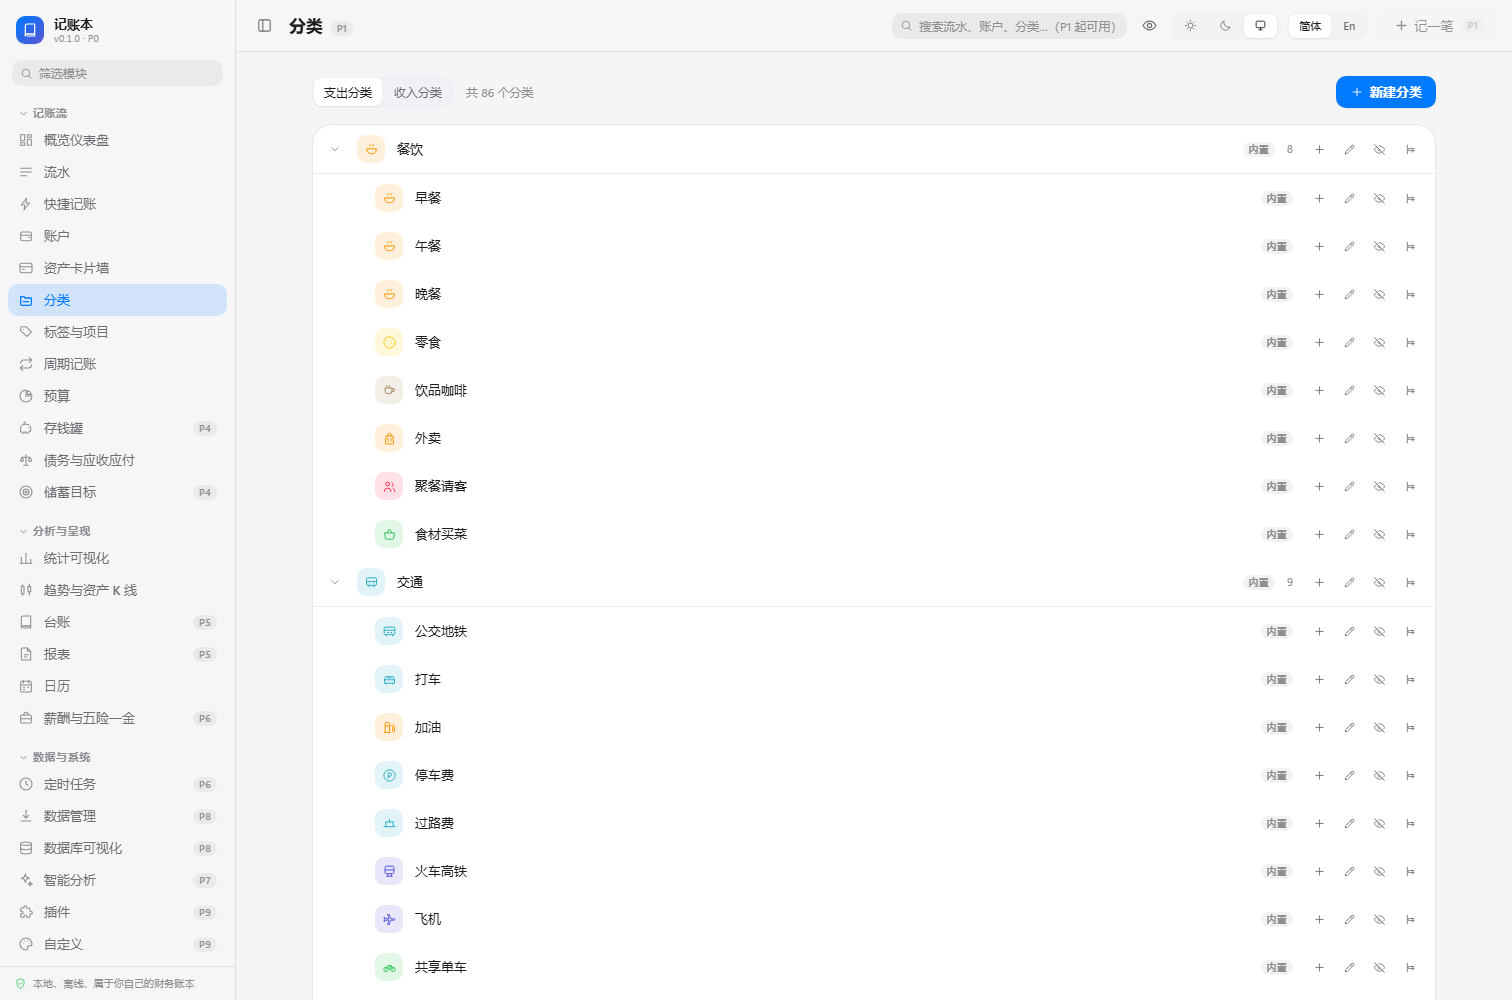
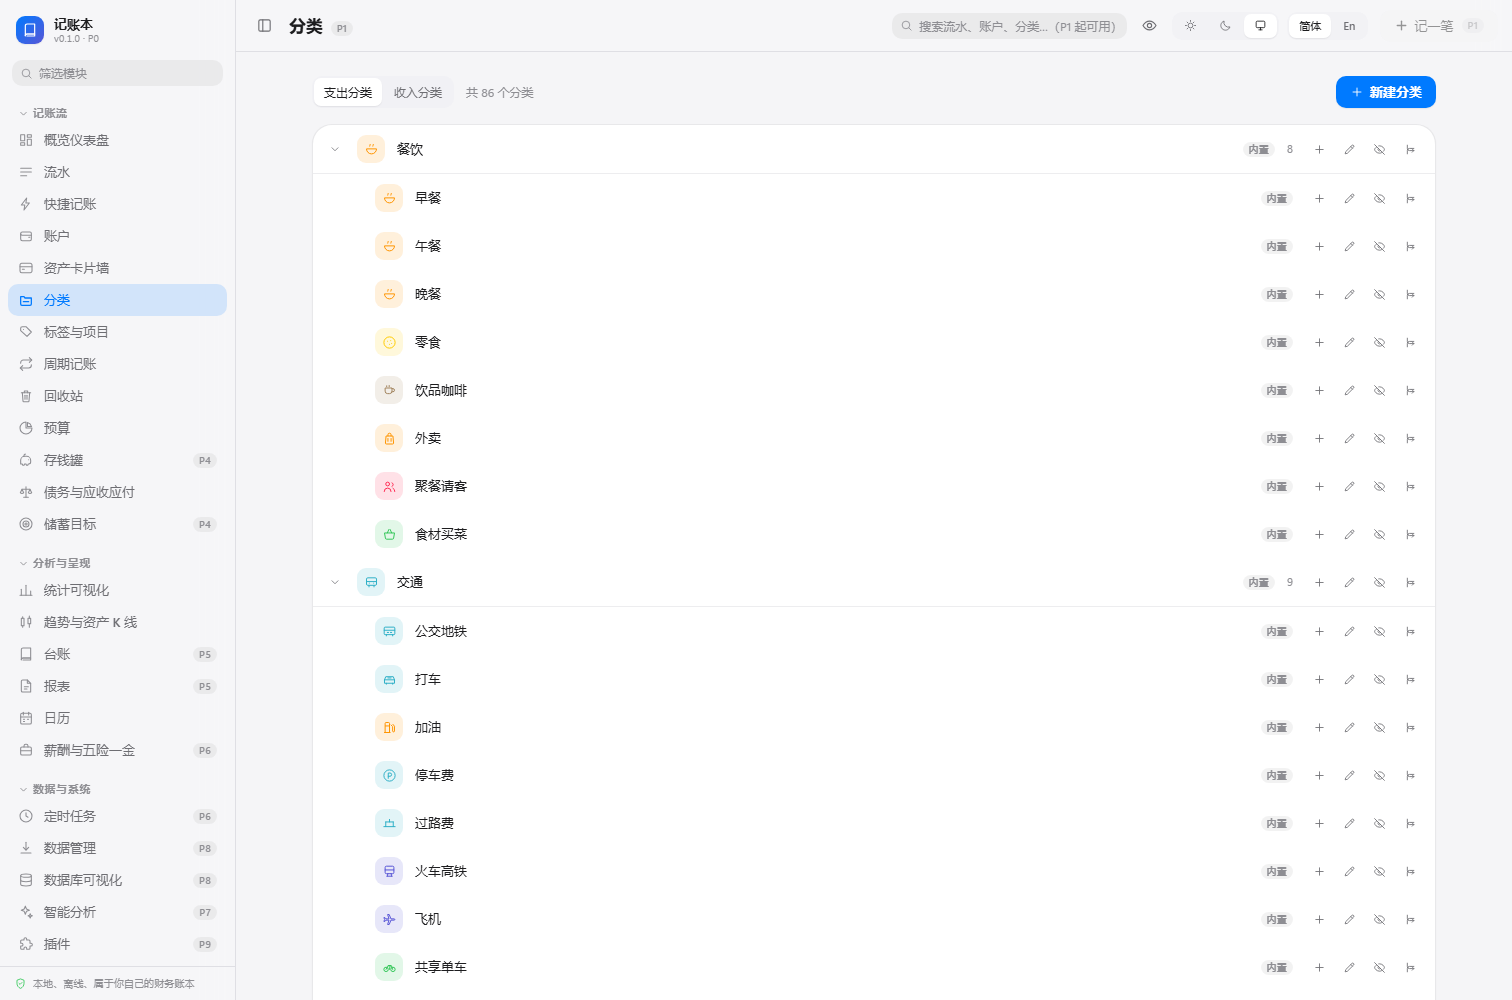
chore(尾巴收尾): 补齐缺失截图 + 文档状态同步 + 修掉文案里的 markdown 星号
补齐此前缺的截图
----------------
新增三张（以及为此做的一处真实改进）：

* `p1-quick-add.png` —— 快捷记账对话框（**模板栏 + 解析框**都在里面）。
  这个入口此前是坏的（`/quick-add` 不自动打开对话框），已在 T3 修好；
* `p1-trash.png` —— 回收站页面；
* `p1-debt-plan.png` —— 还款计划弹窗。

为截图做的改进不是"为截图而造"：给债务页加了 `?plan=<id>` 深链，
让"某笔债务的还款计划"成为可分享、可加书签的链接，与日历的 `?day=` 同理。

另外补上了截图脚本里的模板种子数据 —— 模板栏是"有模板才显示"的
（空账本时不该出现一排假按钮），因此不种数据就截不到模板栏。

文档状态同步
------------
`docs/FEATURES.md` 里此前挂着 🚧 的 9 条已按实际情况更新为 ✅：
虚拟滚动、批量编辑、回收站页面、流水附件、私人卡面图片上传、
列表 FLIP、长区间降周期、框选对比、应用内全局快捷键。

剩下仍在 🚧 的都是**真的没做**的，没有一条被含糊过去：
需求 1/10（打包与设置，P10）、需求 3/13（全模块美术，P2–P5 跨度）、
需求 6（含 ML 预留，P7）、以及操作系统级热键（应用在后台也能唤起）——
最后这一条写在快捷记账那一行里，与本环境无法交互式验证有关。

修掉的两个真实缺陷
------------------
1. **界面文案里的 markdown 星号被原样显示**：`**估算**` 连星号一起
   渲染出来了（界面是纯文本渲染，不解析 markdown）。这条**只有看截图
   才能发现** —— 类型检查、lint、单元测试全都不会报。已去掉。
   顺带记一笔：我第一次用 `text.replace("**", "")` 去修，那连
   `/**` 这种 JSDoc 注释里的星号一起删了，把两个 i18n 文件改成了语法错误；
   改成"只在单引号字符串字面量内替换"后才是对的。
2. 演示债务此前没有分期（默认"到期一次性"），还款计划表只有一行，
   看不出分摊是否正确。已改为 6 期等额本息。

验证
----
* pytest 全绿；ruff check 通过；
* tsc --noEmit、vite build 通过（主包 317 KB / gzip 91 KB）；
* **PyInstaller 打包 + 冒烟通过**（56.7 MB）。
  第一次打包失败是残留的 `AccountBook.exe` 占着文件锁，杀掉进程后正常 ——
  这不是代码问题，但值得记下来（此前也踩过）。

Changed region(s): [[0.0, 0.372, 0.0933, 0.961]]

diff --git a/web/src/pages/Planning.tsx b/web/src/pages/Planning.tsx
@@ -13,6 +13,7 @@
  */
 
 import { useCallback, useEffect, useMemo, useState } from 'react'
+import { useSearchParams } from 'react-router-dom'
 
 import { Icon } from '@/components/Icon'
 import { Chart } from '@/components/Chart'
@@ -1133,6 +1134,10 @@ export function DebtsPage() {
   const [paying, setPaying] = useState<DebtStatus | null>(null)
   const [planFor, setPlanFor] = useState<DebtStatus | null>(null)
   const [plan, setPlan] = useState<RepaymentPlan | null>(null)
+  // `?plan=<id>` 直接打开某笔债务的还款计划。与日历的 `?day=` 同一个理由：
+  // 让"某笔债务的计划"成为可分享、可加书签的链接。
+  const [searchParams, setSearchParams] = useSearchParams()
+  const planParam = searchParams.get('plan')
   const [busy, setBusy] = useState(false)
 
   const [form, setForm] = useState({
@@ -1165,6 +1170,25 @@ export function DebtsPage() {
   useEffect(() => {
     void load()
   }, [load])
+
+  // 深链：列表就绪后打开对应的那笔债务
+  useEffect(() => {
+    if (!planParam || planFor !== null || !data) return
+    const target = data.items.find((item) => String(item.id) === planParam)
+    if (!target) return
+    setPlanFor(target)
+    void api.debtPlan(target.id).then(setPlan).catch(() => setPlan(null))
+    // eslint-disable-next-line react-hooks/exhaustive-deps
+  }, [planParam, data])
+
+  const closePlan = useCallback(() => {
+    setPlanFor(null)
+    setPlan(null)
+    // 一并清掉 URL 参数，否则刷新后又弹出来
+    searchParams.delete('plan')
+    setSearchParams(searchParams, { replace: true })
+    // eslint-disable-next-line react-hooks/exhaustive-deps
+  }, [searchParams, setSearchParams])
 
   const submit = async () => {
     setBusy(true)
@@ -1550,19 +1574,9 @@ export function DebtsPage() {
         open={planFor !== null}
         title={t('debts.planTitle', { name: planFor?.name ?? '' })}
         size="lg"
-        onClose={() => {
-          setPlanFor(null)
-          setPlan(null)
-        }}
+        onClose={closePlan}
         footer={
-          <button
-            type="button"
-            className="ab-btn-secondary"
-            onClick={() => {
-              setPlanFor(null)
-              setPlan(null)
-            }}
-          >
+          <button type="button" className="ab-btn-secondary" onClick={closePlan}>
             {t('common.close')}
           </button>
         }

diff --git a/web/src/i18n/zh-CN.ts b/web/src/i18n/zh-CN.ts
@@ -659,7 +659,7 @@ export const zhCN = {
     totalPayable: '本息合计',
     remaining: '剩余本金',
     settledPeriods: '已结清 {done} / {total} 期',
-    estimateNote: '分摊表是**估算**：真实计息方式（提前还款、罚息、浮动利率）不在本应用范围内。本金分摊之和严格等于原始本金，最后一期吸收取整误差。',
+    estimateNote: '分摊表是估算：真实计息方式（提前还款、罚息、浮动利率）不在本应用范围内。本金分摊之和严格等于原始本金，最后一期吸收取整误差。',
     colPeriod: '期次',
     colDate: '日期',
     colPayment: '本期应还',
@@ -807,7 +807,7 @@ export const zhCN = {
     edit: '批量修改',
     apply: '应用到所选',
     title: '批量修改 {count} 笔流水',
-    hint: '只有你**改动过**的字段会被提交；没碰过的字段保持原样。想清空分类请点「清空」。',
+    hint: '只有你改动过的字段会被提交；没碰过的字段保持原样。想清空分类请点「清空」。',
     nothingChanged: '还没有改动任何字段',
     noChange: '不修改',
     clear: '清空',

diff --git a/docs/FEATURES.md b/docs/FEATURES.md
@@ -85,30 +85,30 @@
 - ✅ 数据模型与 Alembic 迁移（流水 / 账户 / 分类 / 标签 / 项目 / 成员 / 分账 / 审计）
 - ✅ 金额全程整数最小单位（分）；软删除 + 审计留痕（只记字段级差异，且脱敏 note / payee）
 - ✅ 流水 CRUD API：分页、筛选（多值或逗号分隔）、校验（`extra="forbid"`）
-- ✅ 流水三视图：列表 / 时间轴 / 简版日历　🚧 虚拟滚动未做（数据量达到需要时再补）
-- ✅ 快捷记账：模板（按最常用排序）+ 自然语言 / 剪贴板解析　🚧 全局快捷键唤起未做（目前是页内快捷键）
-- ✅ 详细填表：分账、标签、项目、成员、清算状态　🚧 流水附件随 P8
+- ✅ 流水三视图：列表 / 时间轴（两者均已接入**虚拟滚动**，行高按实测值计算）/ 简版日历
+- ✅ 快捷记账：模板（按最常用排序）+ 自然语言 / 剪贴板解析 + **应用内全局快捷键**（`Ctrl/Cmd+K`）　🚧 操作系统级热键（应用在后台也能唤起）未做
+- ✅ 详细填表：分账、标签、项目、成员、清算状态、**附件**（PNG/JPEG/WebP/GIF/PDF，魔数校验 + 体积上限 + 路径穿越防护）
 - ✅ 账户管理：现金 / 储蓄卡 / 信用卡 / 电子钱包 / 投资 / 应收应付 / 预付卡 / 虚拟
 - ✅ 分类树管理：内置精细分类、移动、合并、隐藏、图标选择器
 - ✅ 预算（含结转与阈值告警）、周期记账（含还款计划）、债务与应收应付、标签与项目
-- 🚧 批量编辑流水未做；回收站目前只有恢复接口，集中页面随 P8
+- ✅ **批量编辑**（多选、批量改分类/标签/项目/成员/清算状态、批量删除）与**回收站集中页面**（12 类软删除实体，恢复 + 彻底删除）
 
 ## P2 · 资产卡片墙与可视化体系（已交付）
 
 - ✅ `asset_snapshots` 周期末快照 + `daily_stats` 每日汇总缓存（脏标记 + 读取时懒重算）
-- ✅ **资产卡片墙**：按用途分组、可拖拽排序、机构与卡组织　🚧 私人卡面为数据驱动自绘，图片上传未做
+- ✅ **资产卡片墙**：按用途分组、可拖拽排序、机构与卡组织 + **私人卡面图片上传**（与流水附件共用同一套存储与校验）
 - ✅ 卡面美术（自绘抽象风格，无商标素材）+ 材质与光泽 + 卡片 3D 倾斜
 - ✅ **GitHub 式年度日历热力图**：6 类颜色主指标可切换 + 角标叠加 + 导出 PNG
 - ✅ 点击某日 → 当日详情面板：余额阶梯曲线、收支构成、流水清单、事件日志、变动归因
 - ✅ ECharts 主题随日夜切换 + 图表体系（实际落地 13 类：堆叠面积 / 桑基 / 矩形树 / 旭日 / 雷达 / 箱线 / 气泡 / 瀑布 / 环形 / 蜡烛 / 阶梯曲线 / 分组柱 / 折线）
 - ✅ 可拖拽仪表盘（**组件级**，5 块）+ KPI 微图表（Sparkline / 进度环 / 仪表盘）
-- ✅ 动效体系：页面转场、数字滚动、图表入场、骨架屏、日历格子波次点亮、卡片 3D 倾斜　🚧 列表 FLIP 未做
+- ✅ 动效体系：页面转场、数字滚动、图表入场、骨架屏、日历格子波次点亮、卡片 3D 倾斜、**列表 FLIP**（增删/重排时平滑移动）
 
 ## P3 · 资产 K 线与长期趋势（已交付）
 
-- ✅ `asset_ohlc` 聚合缓存（日 / 周 / 月 / 年）+ 增量刷新　🚧 长区间降采样未做（改用 dataZoom 拖动查看）
+- ✅ `asset_ohlc` 聚合缓存（日 / 周 / 月 / 年）+ 增量刷新 + **长区间自动降周期**（不抽稀蜡烛，降级时界面明确告知）
 - ✅ 蜡烛图（open = 周期开始**前一天**的日终净值）+ 均线 MA5/10/20/60 + MACD / RSI
-- ✅ 成交量子图（期内收入 + 支出总额）、回撤曲线、区间对比（等长两段归一化）　🚧 框选对比未做
+- ✅ 成交量子图（期内收入 + 支出总额）、回撤曲线、区间对比（等长两段归一化 + **主图框选任意区间**）
 - ✅ 事件打点（来自 `day_events`）；发薪日与存钱罐达成的打点随 P4 / P6
 - ✅ 涨跌配色遵循「设置 → 红涨绿跌 / 绿涨红跌」
 - ✅ `KLINE_METRICS.md` 口径文档 + 界面内常驻说明
